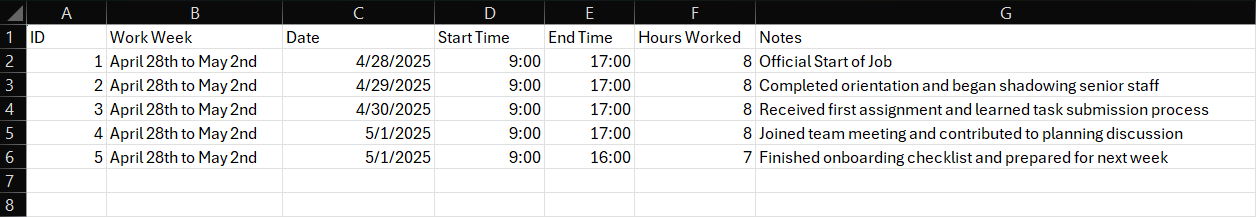
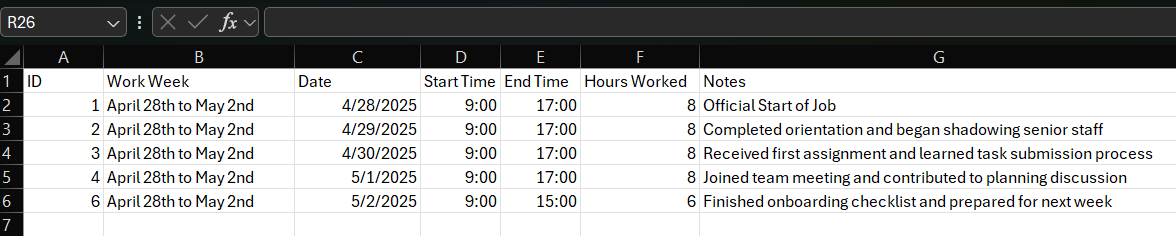
Fixed Images and Add Scrollbar

diff --git a/home.html b/home.html
@@ -48,9 +48,10 @@
 
           <div class="image">
             <img src="" alt="" />
-            <h4></h4>
+            <h4 class="background"></h4>
           </div>
         </div>
+
         <div class="right-example">
           <h2>
             Work <span class="highlight-text">Tracker</span>
@@ -59,9 +60,25 @@
           <div class="image">
             <img
               src="images\work-hour-organizer-example.png"
-              alt="Work Tracker Example"
+              alt="Work Tracker Initial Example"
             />
-            <h4>Work Tracker Example</h4>
+            <h4 class="background">Work Tracker - Initial Example</h4>
+          </div>
+
+          <div class="image">
+            <img
+              src="images\work-hour-organizer-adjustments-example.png"
+              alt="Work Tracker Adjustments Example"
+            />
+            <h4 class="background">Work Tracker - Adjustments Example</h4>
+          </div>
+
+          <div class="image">
+            <img
+              src="images\work-hour-organizer-fixed-example.png"
+              alt="Work Tracker Adjustments Example"
+            />
+            <h4 class="background">Work Tracker - Fixed Example</h4>
           </div>
 
           <div class="image">
@@ -69,7 +86,7 @@
               src="images\work-hour-organizer-csv-example.png"
               alt="Work Tracker CSV Results"
             />
-            <h4>Work Tracker CSV Results</h4>
+            <h4 class="background">Work Tracker - CSV Results</h4>
           </div>
         </div>
       </div>

diff --git a/style.css b/style.css
@@ -141,6 +141,8 @@ hr {
   width: 100%;
   align-items: center;
   padding-top: 1rem;
+  max-height: 500px;
+  overflow-y: auto;
 }
 .left-example {
   padding-right: 2.5rem;
@@ -165,11 +167,13 @@ img {
 
 h4 {
   font-style: italic;
-  background-color: var(--accent-transparent-clr);
   text-align: center;
   width: 100%;
   padding: 0.125rem 0;
   border-radius: 0.5rem;
+}
+.background {
+  background-color: var(--accent-transparent-clr);
 }
 
 .border {

diff --git a/work_tracker.html b/work_tracker.html
@@ -31,7 +31,6 @@
         Once done, click "Download Table as a CSV File!" If you return, you can
         upload that CSV file to continue with your organization.
       </p>
-
       <div class="container">
         <h4>Add Another Row</h4>
 

diff --git a/work_tracker_styles.css b/work_tracker_styles.css
@@ -23,7 +23,7 @@ h4 {
   display: block;
   overflow-x: auto;
   overflow-y: auto;
-  max-height: 60vh;
+  max-height: 50vh;
   max-width: 100%;
   padding: 0 1rem;
   margin: 0 auto;
